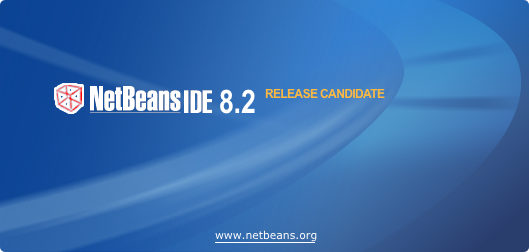
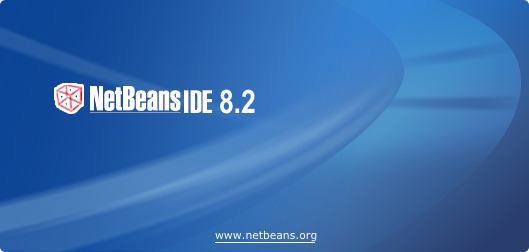
8.2 final branding

Changed region(s): [[0.4839, 0.3333, 0.7259, 0.3889]]

diff --git a/installer/infra/build/web/js/build_info.js b/installer/infra/build/web/js/build_info.js
@@ -65,7 +65,7 @@ build_info.USE_HTML_ZIP_LISTING = 1;
 
 build_info.add_download_tabs = function() {
 	add_download_tab("8.1", "http://netbeans.org/downloads/");
-	add_download_tab("8.2 RC");
+	add_download_tab("8.2");
 	add_download_tab(DEVELOPMENT_TITLE,DEVELOPMENT_BUILDS_LINK);
 	add_download_tab(ARCHIVE_TITLE,ARCHIVE_BUILDS_LINK);
 }
